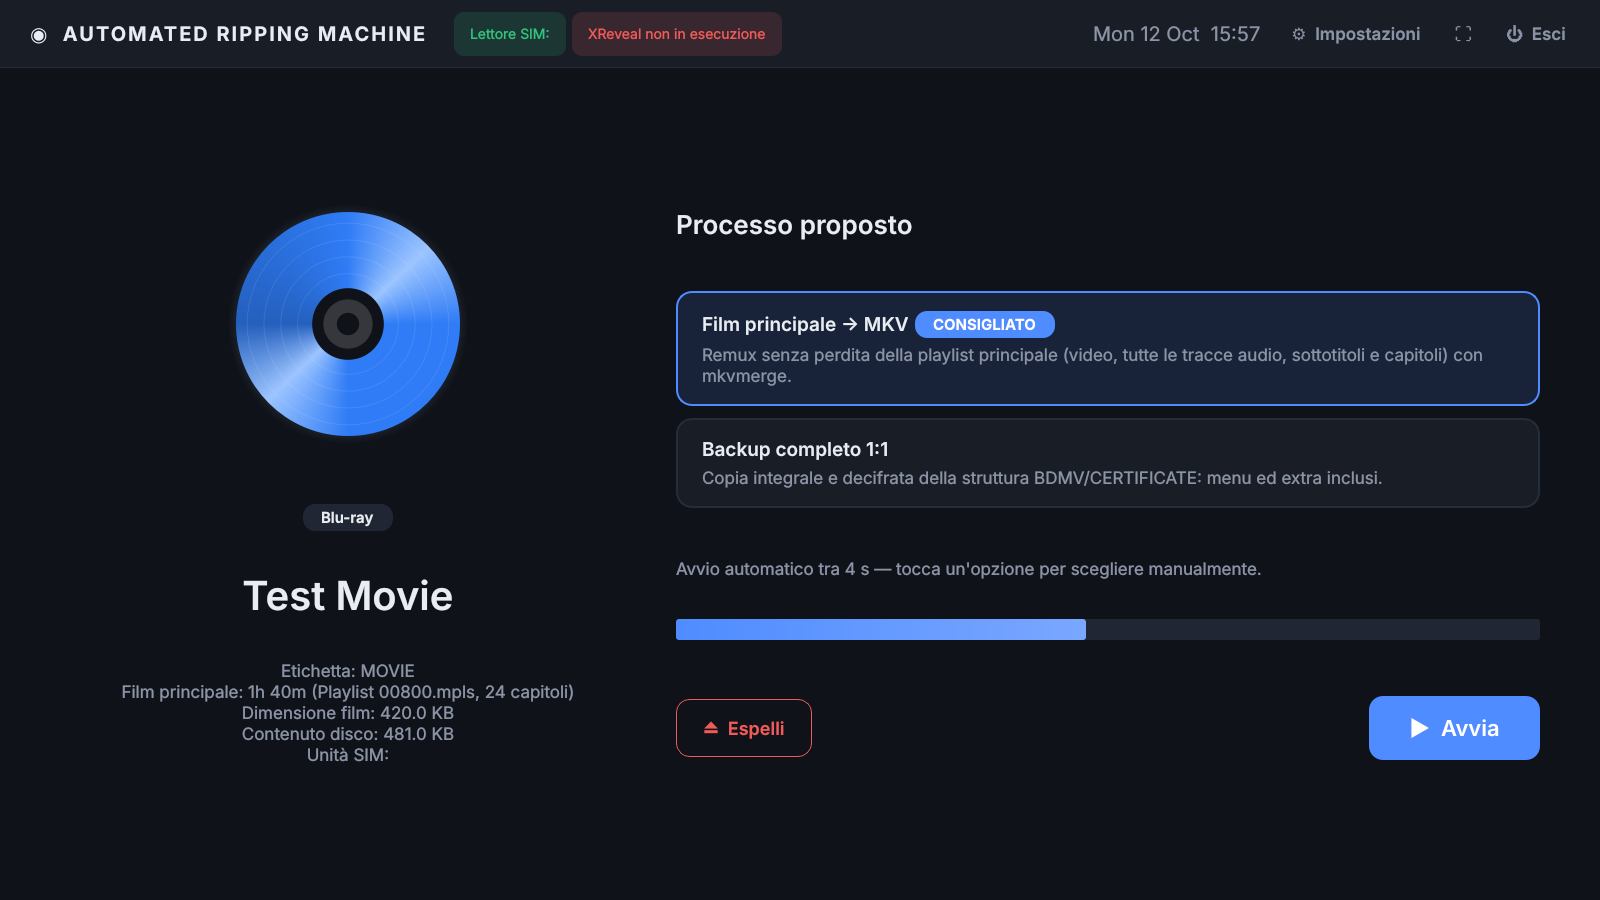
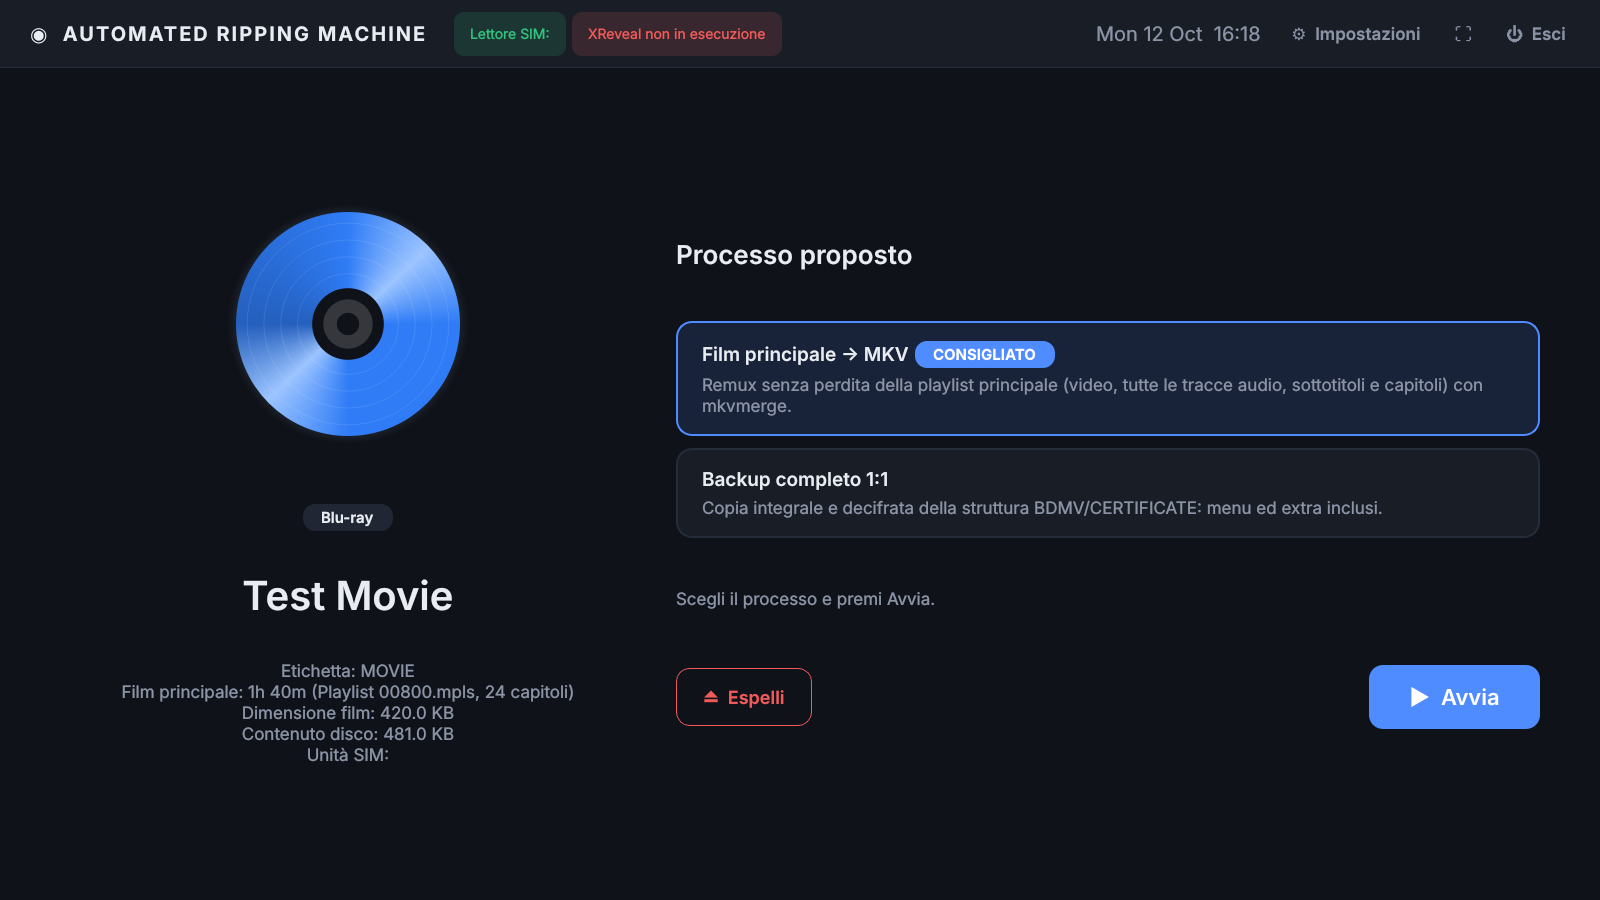
Start rips only on explicit user input
Remove the auto-start countdown from the proposal screen: the suggested
process is preselected but nothing runs until the user presses Avvia.
Auto-eject after a rip is now off by default. Adds a UI test checking
that a detected disc stays on the proposal until the user starts it.

Claude-Session: https://claude.ai/code/session_01J8RwEZmGJGsSb1fSmrff65

diff --git a/arm/ui/main_window.py b/arm/ui/main_window.py
@@ -36,7 +36,6 @@ class MainWindow(QMainWindow):
         self.job = None
         self.job_process = None
         self.job_started = 0.0
-        self.countdown_left = 0
         self.result_path: Path | None = None
         self.log_file = None
         self.last_ok = False
@@ -65,15 +64,12 @@ class MainWindow(QMainWindow):
         self.wait.eject.connect(self._eject)
         self.proposal.start.connect(self._start_process)
         self.proposal.eject.connect(self._eject)
-        self.proposal.selection_changed.connect(self._stop_countdown)
         self.run.cancel.connect(self._cancel_job)
         self.run.toggle_log.connect(self._remember_log_pref)
         self.done.dismiss.connect(self._dismiss_result)
         self.done.open_folder.connect(self._open_result)
         self.done.eject.connect(self._eject)
 
-        self.countdown_timer = QTimer(self)
-        self.countdown_timer.timeout.connect(self._countdown_tick)
         self.clock_timer = QTimer(self)
         self.clock_timer.timeout.connect(self._tick)
         self.clock_timer.start(1000)
@@ -172,7 +168,6 @@ class MainWindow(QMainWindow):
 
     # ---------------------------------------------------------------- states
     def _show_idle(self) -> None:
-        self._stop_countdown()
         self.info = None
         self.idle.disc.set_kind("none")
         self.idle.disc.set_spinning(False)
@@ -199,7 +194,6 @@ class MainWindow(QMainWindow):
 
     def _start_analysis(self, skip_wait: bool) -> None:
         self._stop_analyzer()
-        self._stop_countdown()
         self.wait.set_mode(timed_out=False)
         self.wait.disc.set_kind("unknown")
         self.wait.type_badge.setText("Rilevamento…")
@@ -301,18 +295,9 @@ class MainWindow(QMainWindow):
             options.append((proc.id, proc.name, desc, enabled, proc is default))
         p.set_options(options)
         self.stack.setCurrentWidget(p)
-
-        if self.cfg.autostart_countdown_s > 0 and p.selected():
-            self.countdown_left = self.cfg.autostart_countdown_s
-            p.countdown_bar.setRange(0, self.countdown_left * 10)
-            p.countdown_bar.setValue(self.countdown_left * 10)
-            p.countdown_bar.setVisible(True)
-            self._countdown_ms = self.countdown_left * 1000
-            self.countdown_timer.start(100)
-            self._update_countdown_label()
-        else:
-            p.countdown.setText("Scegli il processo e premi Avvia.")
-            p.countdown_bar.setVisible(False)
+        # Never start on our own: the rip begins only when the user presses "Avvia".
+        p.hint.setText("Scegli il processo e premi Avvia." if p.selected()
+                       else "Nessun processo disponibile: controlla i programmi nelle impostazioni.")
 
     def _process_possible(self, proc, info: DiscInfo) -> bool:
         if proc.id == "bd_mkv_main":
@@ -340,30 +325,8 @@ class MainWindow(QMainWindow):
         lines.append(f"Unità {info.drive}")
         return "\n".join(lines)
 
-    def _update_countdown_label(self) -> None:
-        secs = max(0, (self._countdown_ms + 999) // 1000)
-        self.proposal.countdown.setText(f"Avvio automatico tra {secs} s — tocca un'opzione per "
-                                        "scegliere manualmente.")
-
-    def _countdown_tick(self) -> None:
-        self._countdown_ms -= 100
-        self.proposal.countdown_bar.setValue(max(0, self._countdown_ms // 100))
-        self._update_countdown_label()
-        if self._countdown_ms <= 0:
-            self.countdown_timer.stop()
-            pid = self.proposal.selected()
-            if pid:
-                self._start_process(pid)
-
-    def _stop_countdown(self) -> None:
-        if self.countdown_timer.isActive():
-            self.countdown_timer.stop()
-            self.proposal.countdown.setText("Avvio automatico sospeso. Premi Avvia quando sei pronto.")
-            self.proposal.countdown_bar.setVisible(False)
-
     # ----------------------------------------------------------------- running
     def _start_process(self, pid: str) -> None:
-        self._stop_countdown()
         info = self.info
         if info is None or self.job is not None:
             return
@@ -463,7 +426,6 @@ class MainWindow(QMainWindow):
 
     def _eject(self) -> None:
         self._stop_analyzer()
-        self._stop_countdown()
         if self.drive:
             winapi.eject(self.drive)
         if self.stack.currentWidget() is not self.done:
@@ -474,7 +436,6 @@ class MainWindow(QMainWindow):
         if self._busy():
             QMessageBox.information(self, "Impostazioni", "Attendi la fine del rip in corso.")
             return
-        self._stop_countdown()
         dlg = SettingsDialog(self.cfg, self)
         if self.isFullScreen():
             dlg.setWindowState(Qt.WindowState.WindowMaximized)

diff --git a/tests/test_ui.py b/tests/test_ui.py
@@ -1,0 +1,84 @@
+import os
+import sys
+import tempfile
+import unittest
+from pathlib import Path
+
+sys.path.insert(0, str(Path(__file__).resolve().parents[1]))
+os.environ.setdefault("QT_QPA_PLATFORM", "offscreen")
+
+from PySide6.QtCore import QEventLoop, QTimer  # noqa: E402
+from PySide6.QtWidgets import QApplication  # noqa: E402
+
+from tests import fixtures  # noqa: E402
+
+APP = QApplication.instance() or QApplication([])
+
+
+def wait_until(predicate, timeout_ms=15000) -> bool:
+    loop = QEventLoop()
+    timer = QTimer()
+    timer.timeout.connect(lambda: predicate() and loop.quit())
+    timer.start(50)
+    QTimer.singleShot(timeout_ms, loop.quit)
+    loop.exec()
+    timer.stop()
+    return bool(predicate())
+
+
+def process_events(ms: int) -> None:
+    loop = QEventLoop()
+    QTimer.singleShot(ms, loop.quit)
+    loop.exec()
+
+
+class ManualStartTests(unittest.TestCase):
+    def setUp(self):
+        self.tmp = tempfile.TemporaryDirectory()
+        base = Path(self.tmp.name)
+        self._env = {k: os.environ.get(k) for k in ("ARM_SIM_DRIVE", "XDG_CONFIG_HOME", "APPDATA")}
+        os.environ["XDG_CONFIG_HOME"] = str(base / "cfg")
+        os.environ["APPDATA"] = str(base / "cfg")
+        os.environ["ARM_SIM_DRIVE"] = str(fixtures.make_bluray(base / "MOVIE"))
+        self.out = base / "out"
+
+    def tearDown(self):
+        for key, value in self._env.items():
+            if value is None:
+                os.environ.pop(key, None)
+            else:
+                os.environ[key] = value
+        self.tmp.cleanup()
+
+    def test_rip_starts_only_on_user_input(self):
+        from arm.core.config import Config
+        from arm.ui.main_window import MainWindow
+
+        cfg = Config.load()
+        cfg.video_output_dir = str(self.out)
+        cfg.xreveal_initial_delay_s = 0
+        window = MainWindow(cfg)
+        try:
+            self.assertTrue(wait_until(lambda: window.stack.currentWidget() is window.proposal))
+            self.assertIsNotNone(window.proposal.selected())   # suggested, not started
+            # Leave the proposal untouched: nothing may start by itself.
+            process_events(3000)
+            self.assertIs(window.stack.currentWidget(), window.proposal)
+            self.assertIsNone(window.job)
+            self.assertFalse(self.out.exists())
+
+            # The user picks the 1:1 backup and presses "Avvia".
+            backup = next(c for c in window.proposal._cards if c.pid == "bd_backup")
+            window.proposal._on_card_clicked(backup)
+            window.proposal.start_btn.click()
+            self.assertTrue(wait_until(lambda: window.stack.currentWidget() is window.done))
+            self.assertTrue(window.last_ok)
+            self.assertTrue(any(self.out.rglob("*.m2ts")))
+        finally:
+            window.monitor.stop()
+            window._stop_analyzer()
+            window.deleteLater()
+
+
+if __name__ == "__main__":
+    unittest.main()

diff --git a/arm/ui/pages.py b/arm/ui/pages.py
@@ -192,7 +192,6 @@ class OptionCard(QFrame):
 class ProposalPage(QWidget):
     start = Signal(str)          # process id
     eject = Signal()
-    selection_changed = Signal()
 
     def __init__(self):
         super().__init__()
@@ -222,12 +221,8 @@ class ProposalPage(QWidget):
         self.options_box.setSpacing(12)
         right.addLayout(self.options_box)
         right.addSpacing(10)
-        self.countdown = label("", "muted")
-        right.addWidget(self.countdown)
-        self.countdown_bar = QProgressBar()
-        self.countdown_bar.setObjectName("thin")
-        self.countdown_bar.setTextVisible(False)
-        right.addWidget(self.countdown_bar)
+        self.hint = label("", "muted")
+        right.addWidget(self.hint)
         right.addSpacing(16)
         row = QHBoxLayout()
         self.eject_btn = button("⏏  Espelli", "danger", self.eject.emit)
@@ -264,7 +259,6 @@ class ProposalPage(QWidget):
         for c in self._cards:
             c.setChecked(c is card_)
         self.start_btn.setEnabled(True)
-        self.selection_changed.emit()
 
     def selected(self) -> str | None:
         return next((c.pid for c in self._cards if c.isChecked()), None)

diff --git a/arm/ui/settings_dialog.py b/arm/ui/settings_dialog.py
@@ -69,12 +69,6 @@ class SettingsDialog(QDialog):
         f.addRow("Cartella film", self.video_dir)
         f.addRow("Cartella musica", self.music_dir)
         f.addRow("Cartella dischi dati", self.data_dir)
-        self.countdown = QSpinBox()
-        self.countdown.setRange(0, 600)
-        self.countdown.setSuffix(" s")
-        self.countdown.setSpecialValueText("disattivato")
-        self.countdown.setValue(cfg.autostart_countdown_s)
-        f.addRow("Avvio automatico dopo", self.countdown)
         self.eject = QCheckBox("Espelli il disco al termine")
         self.eject.setChecked(cfg.eject_when_done)
         f.addRow("", self.eject)
@@ -223,7 +217,6 @@ class SettingsDialog(QDialog):
         c.video_output_dir = self.video_dir.text()
         c.music_output_dir = self.music_dir.text()
         c.data_output_dir = self.data_dir.text()
-        c.autostart_countdown_s = self.countdown.value()
         c.eject_when_done = self.eject.isChecked()
         c.fullscreen = self.fullscreen.isChecked()
         for attr, combo in self.defaults.items():

diff --git a/tests/test_jobs.py b/tests/test_jobs.py
@@ -8,14 +8,15 @@ from tempfile import TemporaryDirectory
 sys.path.insert(0, str(Path(__file__).resolve().parents[1]))
 os.environ.setdefault("QT_QPA_PLATFORM", "offscreen")
 
-from PySide6.QtCore import QCoreApplication, QEventLoop, QTimer  # noqa: E402
+from PySide6.QtCore import QEventLoop, QTimer  # noqa: E402
+from PySide6.QtWidgets import QApplication  # noqa: E402
 
 from arm.jobs.cd_job import CyanripJob  # noqa: E402
 from arm.jobs.copy_job import CopyJob  # noqa: E402
 from arm.jobs.video_jobs import BlurayMkvJob  # noqa: E402
 from tests import fixtures  # noqa: E402
 
-APP = QCoreApplication.instance() or QCoreApplication([])
+APP = QApplication.instance() or QApplication([])
 
 
 def run_job(job, timeout_ms=20000):

diff --git a/arm/core/config.py b/arm/core/config.py
@@ -58,9 +58,8 @@ class Config:
     default_audio: str = "cd_flac"
     default_data: str = "data_copy"
 
-    # Automation
-    autostart_countdown_s: int = 15     # 0 = never auto-start
-    eject_when_done: bool = True
+    # Nothing starts on its own: rips begin only when the user presses "Avvia".
+    eject_when_done: bool = False
     min_main_title_minutes: int = 20
 
     # Audio CD

diff --git a/README.md b/README.md
@@ -1,14 +1,17 @@
 # Automated Ripping Machine (Windows · Qt)
 
 App **a schermo intero** in Qt (PySide6) che trasforma un PC Windows in una
-macchina di ripping automatica:
+macchina di ripping: riconoscimento e analisi sono automatici, ma **nessun rip parte
+senza un comando dell'utente**.
 
 1. **Inserisci il disco**: l'app lo rileva da sola (polling del lettore ottico).
 2. **Riconosce il tipo di disco**: Blu-ray, Blu-ray 4K UHD, DVD Video, CD Audio o disco dati.
 3. **Attende XReveal**: per i dischi video aspetta che XReveal abbia finito di
    decifrare, verificando il contenuto vero e proprio invece di affidarsi a un ritardo fisso.
-4. **Propone il processo corretto** (con avvio automatico dopo un conto alla rovescia configurabile).
-5. **Esegue il rip**, mostra avanzamento e log, poi **espelle** il disco ed è pronta per il successivo.
+4. **Propone il processo corretto** (preselezionato): il rip parte **solo quando premi Avvia**,
+   dopo aver eventualmente scelto un altro processo.
+5. **Esegue il rip**, mostra avanzamento e log. Al termine il disco resta nel lettore finché non premi
+   **Espelli** (l'espulsione automatica si può attivare nelle impostazioni).
 
 | Attesa disco | Attesa XReveal | Proposta del processo |
 |---|---|---|
@@ -39,7 +42,7 @@ protezione), per i DVD si leggono gli IFO e si sceglie il titolo più lungo.
 open source che offre le stesse garanzie della modalità sicura di EAC: rilettura
 con cd-paranoia finché i dati sono coerenti, correzione dell'offset del lettore,
 confronto di ogni traccia con il database AccurateRip, file lossless con CUE e log
-con checksum. Essendo CLI si integra in un processo completamente automatico.
+con checksum. Essendo CLI si integra direttamente nell'app.
 
 > **Importante per l'1:1:** imposta l'**offset di lettura** del tuo lettore
 > (Impostazioni → CD Audio). Puoi trovarlo su
